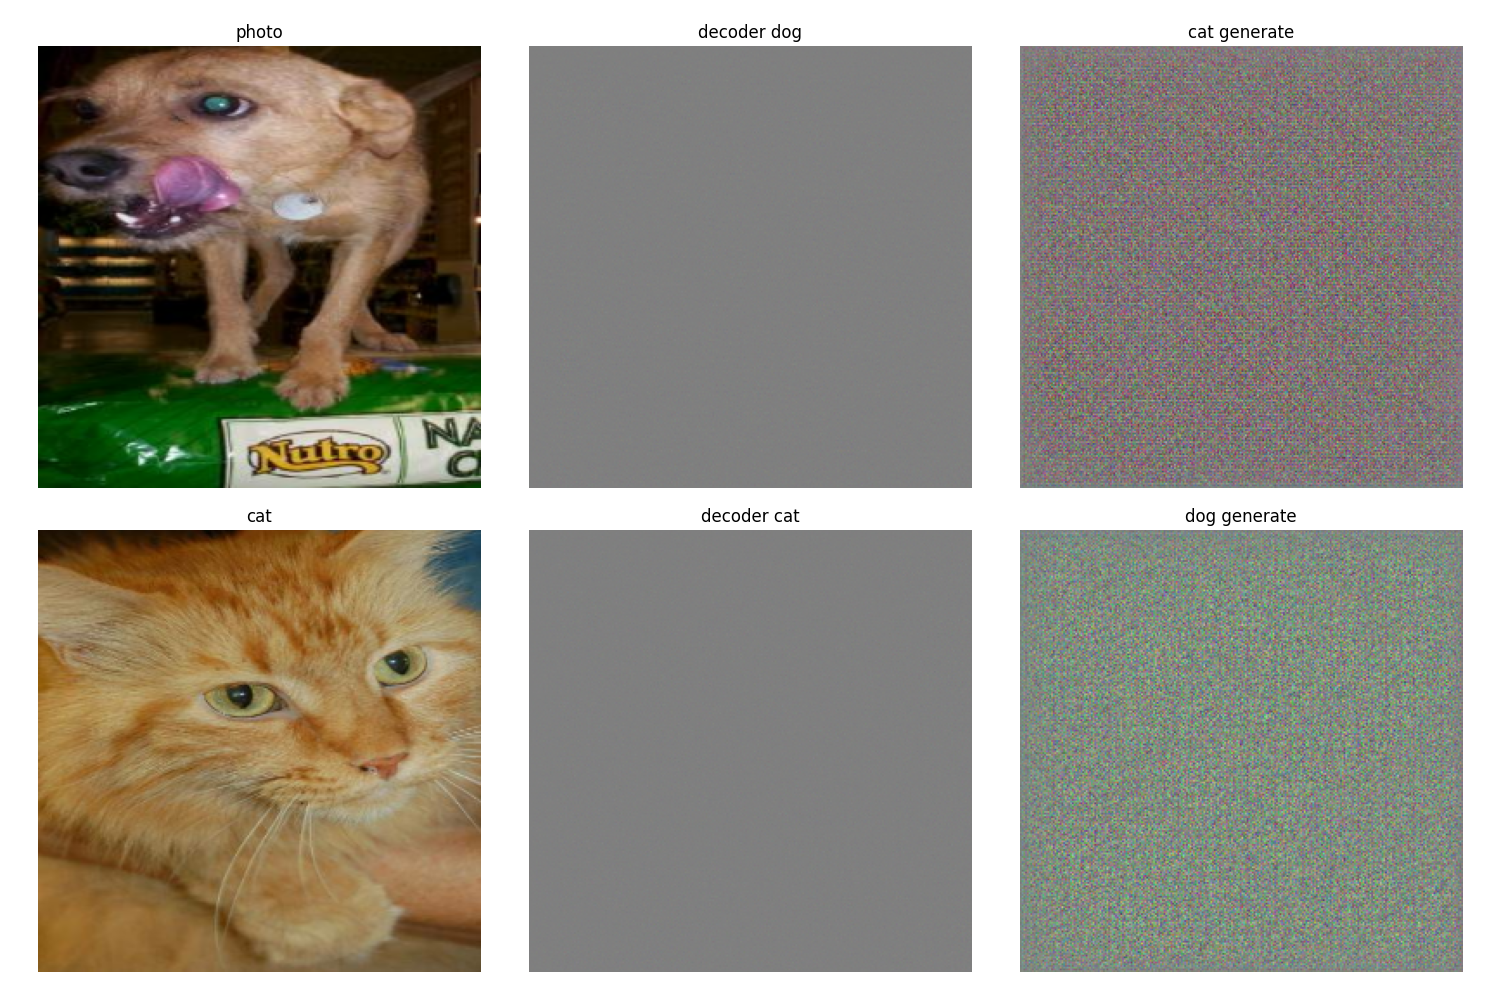
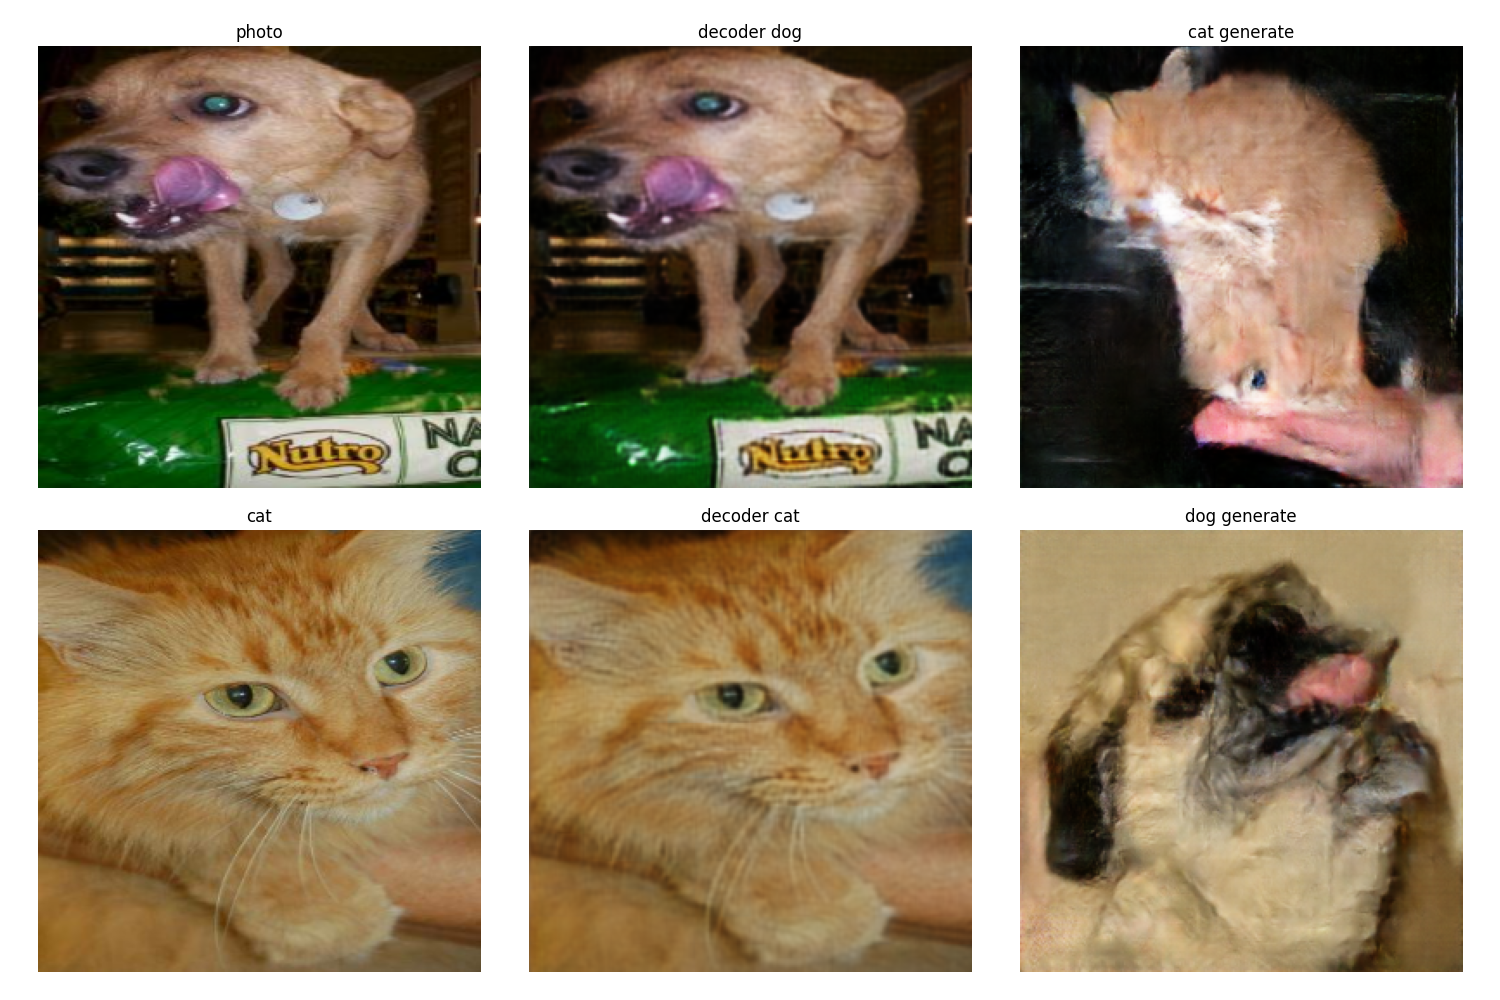
Update

diff --git a/Scripts/Modules/VAE_pix2pix.py b/Scripts/Modules/VAE_pix2pix.py
@@ -110,7 +110,7 @@ class VAE_pix2pix_model(Model):
             zd, zd_mean, zd_log_var = self.vae_dog.sampler_model(pred_dog)
             pred_dog = self.vae_dog.decoder_model(zd)
             # loss
-            rd_loss = self.vae_dog.r_loss_factor * self.mae(
+            rd_loss = self.vae_dog.r_loss_factor * self.vae_dog.mae(
                 dog,
                 pred_dog
             )
@@ -123,9 +123,9 @@ class VAE_pix2pix_model(Model):
             pred_cat = self.vae_cat.encoder_model(cat)
             # predict
             zc, zc_mean, zc_log_var = self.vae_cat.sampler_model(pred_cat)
-            pred_cat = self.decoder_model(zc)
+            pred_cat = self.vae_cat.decoder_model(zc)
             # loss
-            rc_loss = self.vae_cat.r_loss_factor * self.mae(
+            rc_loss = self.vae_cat.r_loss_factor * self.vae_cat.mae(
                 cat,
                 pred_cat
             )

diff --git a/Scripts/train_cycleGAN.py b/Scripts/train_cycleGAN.py
@@ -3,20 +3,15 @@ from Modules.dataset import dataset_model
 from Modules.params import get_params
 from pandas import DataFrame
 from os.path import join
-from sys import argv
 
 params = get_params()
-params["dataset"]["type"] = argv[1]
+params["dataset"]["type"] = "all"
 dataset = dataset_model(params)
 model = VAE_pix2pix_model(params)
+print(params["epochs"])
 history = model.fit(dataset.train,
                     epochs=params["epochs"])
-# history = history.history
 history = DataFrame(history)
-filename = f"../cycleGAN_history.csv"
+filename = "../cycleGAN_history.csv"
 history.to_csv(filename,
                index=False)
-filename = "cycleGAN_model.h5"
-filename = join(params["path models"],
-                filename)
-model.save_weights(filename)

diff --git a/Scripts/Modules/params.py b/Scripts/Modules/params.py
@@ -10,12 +10,6 @@ def get_params() -> dict:
                 "shuffle": True,
                 "labels": None,
             },
-            "test": {
-                "image_size": (256, 256),
-                "batch_size": 1,
-                "shuffle": False,
-                "labels": None,
-            }
         },
         "VAE": {
             "input_dim": (256, 256, 3),
@@ -23,6 +17,7 @@ def get_params() -> dict:
             "latent_dim": 150,
             "summary": False,
         },
-        "epochs":1000,
+        "epochs":50000,
+        # "epochs":10,
     }
     return params
